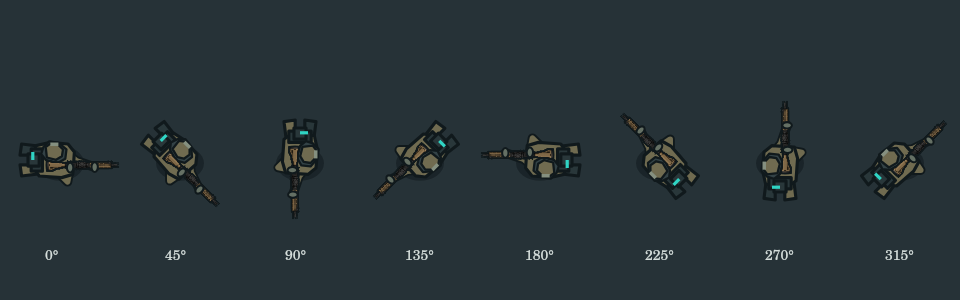
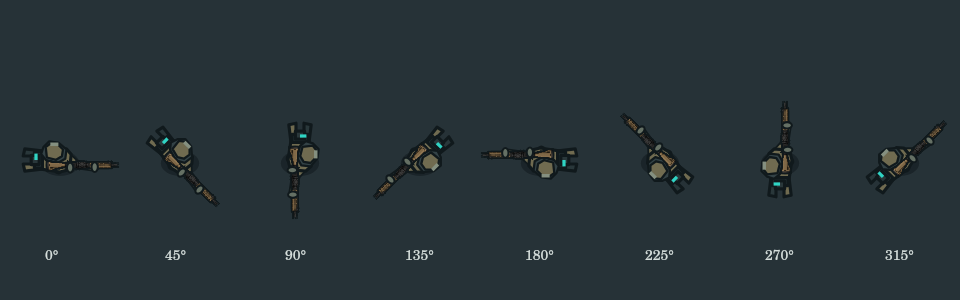
과도하게 두꺼운 체형을 줄이고 머리 대비 몸통·하체 비율 보정
머리와 총기 크기를 유지하며 몸통 22→15, 하체 20→14로 폭을 줄입니다.
군장·그림자를 함께 축소하고 방아쇠팔을 몸에 붙입니다.
표시 전용 변경으로 충돌과 성능은 보존합니다. 정적 이미지 갱신 및 타입 검사 통과, 미술 승인 대기.

diff --git a/artifacts/draft-order-player-generator/src/components/modularOperator.ts b/artifacts/draft-order-player-generator/src/components/modularOperator.ts
@@ -77,7 +77,7 @@ export function weaponMountPose(name:string):WeaponMountPose {
   const support=kind==='bolt'?mix(magazine,rawSupport,.22):kind==='marksman'?mix(magazine,rawSupport,.55):kind==='pistol'?{x:trigger.x+1.4,y:trigger.y-1.2}:rawSupport;
   return {kind,stock,triggerHand:trigger,supportHand:support,magazine,muzzle,
     torsoYaw,shoulderPocket,
-    triggerShoulder:rotate({x:-1,y:8}),supportShoulder:rotate({x:1,y:-7}),cheek:{x:stock.x+5,y:stock.y-3.5}};
+    triggerShoulder:rotate({x:-1,y:6}),supportShoulder:rotate({x:1,y:-5.5}),cheek:{x:stock.x+5,y:stock.y-3.5}};
 }
 
 function normalize(angle:number):number { return Math.atan2(Math.sin(angle),Math.cos(angle)); }
@@ -128,27 +128,27 @@ function paintLowerBody(ctx:CanvasRenderingContext2D,pose:OperatorAssemblyPose,t
   const relative=normalize(pose.lowerFacing-pose.upperFacing),step=!reducedMotion&&pose.moving&&!pose.prone?Math.sin(time*(pose.crouched?8:12))*3:0;
   ctx.save();ctx.rotate(relative);ctx.strokeStyle='#10191C';ctx.lineWidth=2;ctx.lineJoin='round';
   for(const side of [-1,1]){const rear=pose.prone?-29:pose.crouched?-13:-18+side*step;
-    polygon(ctx,[[rear-7,side*3],[rear+7,side*3],[rear+10,side*8],[rear-6,side*10]],side<0?'#29373A':color);}
+    polygon(ctx,[[rear-5,side*2.5],[rear+7,side*2.5],[rear+8,side*5.5],[rear-4,side*7]],side<0?'#29373A':color);}
   ctx.restore();
 }
 
 function paintTorso(ctx:CanvasRenderingContext2D,color:string):void {
   ctx.strokeStyle='#10191C';ctx.lineWidth=2;ctx.lineJoin='round';
-  polygon(ctx,[[-15,-9],[-6,-11],[5,-10],[9,-5],[8,9],[1,11],[-13,10],[-18,3]],color);
-  ctx.fillStyle='#29373A';ctx.fillRect(-18,-7,7,14);ctx.strokeRect(-18,-7,7,14);
+  polygon(ctx,[[-14,-5],[-6,-7.5],[4,-7],[7,-3.5],[6,6],[0,7.5],[-13,5.5],[-16,2]],color);
+  ctx.fillStyle='#29373A';ctx.fillRect(-16,-5,5,10);ctx.strokeRect(-16,-5,5,10);
 }
 
 function paintHeadAndKit(ctx:CanvasRenderingContext2D,color:string,pack:number,tool:string):void {
   ctx.strokeStyle='#10191C';ctx.lineWidth=2;ctx.lineJoin='round';
-  ctx.fillStyle='#29373A';ctx.fillRect(-20,-pack*.42,7,pack*.84);ctx.strokeRect(-20,-pack*.42,7,pack*.84);
+  ctx.fillStyle='#29373A';ctx.fillRect(-18,-pack*.32,5,pack*.64);ctx.strokeRect(-18,-pack*.32,5,pack*.64);
   ctx.save();ctx.translate(-1,-3);ctx.scale(.72,.72);
   polygon(ctx,[[-13,-7],[-8,-12],[0,-11],[7,-5],[6,3],[-1,7],[-11,4],[-15,-1]],'#334246');
   polygon(ctx,[[-11,-7],[-7,-10],[0,-9],[4,-5],[3,1],[-2,4],[-10,2]],color);
   ctx.fillStyle='#859080';ctx.fillRect(-7,-11,7,3);ctx.restore();
   if(tool==='battery'||tool==='interceptor'||tool==='charge'||tool==='plate'){
-    ctx.fillStyle=color;ctx.fillRect(-16,8,11,5);ctx.strokeRect(-16,8,11,5);
+    ctx.fillStyle=color;ctx.fillRect(-14,5.5,9,3.5);ctx.strokeRect(-14,5.5,9,3.5);
   } else if(tool==='coil'||tool==='roll'){
-    ctx.fillStyle='#859080';ctx.beginPath();ctx.arc(-11,10,3,0,Math.PI*2);ctx.fill();ctx.stroke();
+    ctx.fillStyle='#859080';ctx.beginPath();ctx.arc(-10,6.5,2.2,0,Math.PI*2);ctx.fill();ctx.stroke();
   }
 }
 
@@ -164,7 +164,7 @@ export function paintModularOperator(ctx:CanvasRenderingContext2D,unit:RealtimeU
   const kick=recoilOffset(time,shotAt,reducedMotion);
 
   ctx.save();ctx.globalAlpha=unit.alive?1:.4;
-  ctx.fillStyle='#04090C55';ctx.beginPath();ctx.ellipse(unit.position.x,unit.position.y+2,15,11,0,0,Math.PI*2);ctx.fill();
+  ctx.fillStyle='#04090C55';ctx.beginPath();ctx.ellipse(unit.position.x,unit.position.y+2,12,8,0,0,Math.PI*2);ctx.fill();
   ctx.translate(unit.position.x,unit.position.y);ctx.rotate(pose.upperFacing);
   paintLowerBody(ctx,pose,time,reducedMotion,kit.color);
   if(down){ctx.save();ctx.rotate(-.18);ctx.scale(1.15,.72);paintTorso(ctx,kit.color);paintHeadAndKit(ctx,kit.color,kit.pack,kit.tool);ctx.restore();ctx.restore();return true;}
@@ -178,7 +178,7 @@ export function paintModularOperator(ctx:CanvasRenderingContext2D,unit:RealtimeU
   const reloading=!down&&!reducedMotion&&unit.action==='reload'&&(unit.reloadRemaining??0)>0&&reloadAge>=0;
   if(reloading){const reach=Math.sin(Math.PI*Math.min(1,reloadAge/(reloadAge+unit.reloadRemaining!)));supportTarget=displaced(mix(mount.supportHand,mount.magazine,reach));}
   if(installing){triggerTarget={x:8,y:5};supportTarget={x:9,y:-5};}
-  const triggerArm=solveArm(mount.triggerShoulder,triggerTarget,8,9,1);
+  const triggerArm=solveArm(mount.triggerShoulder,triggerTarget,8,9,-1);
   let supportArm=solveArm(mount.supportShoulder,supportTarget,12,12,1);
   if(throwing){const thrownPose=throwArmPose(throwProgress);supportArm={shoulder:mount.supportShoulder,elbow:thrownPose.elbow,hand:thrownPose.hand};}
   strokeArm(ctx,supportArm,kit.color);strokeArm(ctx,triggerArm,kit.color);
@@ -194,7 +194,7 @@ export function paintModularOperator(ctx:CanvasRenderingContext2D,unit:RealtimeU
     hand(ctx,triggerTarget,axis+Math.PI/2);hand(ctx,supportTarget,axis+Math.PI/2);
   } else {hand(ctx,triggerTarget,0);hand(ctx,supportArm.hand,0);}
   if(unit.shieldRaised){ctx.fillStyle='#29373A';ctx.strokeStyle='#10191C';ctx.lineWidth=1.5;ctx.fillRect(10,-18,8,36);ctx.strokeRect(10,-18,8,36);ctx.fillStyle='#859080';ctx.fillRect(11,-9,6,9);}
-  ctx.fillStyle=unit.side==='공격'?'#2FD4C4':'#F0873C';ctx.fillRect(-18,-5,2,5);
+  ctx.fillStyle=unit.side==='공격'?'#2FD4C4':'#F0873C';ctx.fillRect(-16,-4,2,4);
   ctx.restore();return weaponDrawn;
 }
 

diff --git a/docs/operator-shouldering-current.md b/docs/operator-shouldering-current.md
@@ -5,6 +5,10 @@
 작업 기준: `feat/modular-operator-renderer`, PR #15, 시작 커밋 `2a02c65`.
 목표는 총을 오른쪽 외곽에 얹은 인상을 제거하고 어깨·양손·총을 하나의 자세로 읽게 하는 것이다. 통짜 시트와 새 총기 원화는 만들지 않았다. 실제 브라우저는 실행하지 않았다.
 
+## 체형 후속 보정
+
+사용자가 몸통이 지나치게 두껍다고 지적했다. 머리·총기 크기는 유지하고 몸통 폭 22→15, 하체 폭 20→14, 배낭 폭 약 24% 축소, 어깨 간격 15→11.5로 조정했다. 방아쇠팔을 안쪽으로 접고 그림자도 축소했다. 모두 표시 좌표이며 충돌·성능 변경은 없다. 정적 이미지는 갱신했으며 미술 승인 대기다.
+
 ## 조사 근거와 한계
 
 실물 사진/설명과 게임 화면의 투영을 구분한다. **6개 총종 전체의 동일 시점 수직 탑뷰 견착 사진 세트는 확보하지 못했다.** 아래 자료를 바탕으로 관절 관계를 설계했으며, 코드의 좌표·회전각은 실측이나 군 교범 표준값이 아니다.

diff --git a/docs/PROJECT_STATE.md b/docs/PROJECT_STATE.md
@@ -1,3 +1,5 @@
+> **체형 보정:** 머리/총기 유지, 몸통·하체 폭 약 30% 축소, 군장·그림자 축소 및 팔 밀착. 정적 이미지 갱신, 미술 승인 대기.
+
 > **외형 반려 후 수정:** 머리에서 팔이 솟는 시안은 사용자 반려. 지지팔을 안쪽으로 접고 위팔을 몸통/머리 뒤로 가리는 수정 적용. 이전 외형 품질 판정 철회, 사용자 미술 승인 대기. [상세](operator-shouldering-current.md)
 
 > **최신 견착 보정:** [총기 중심선·견착 보정](operator-shouldering-current.md). 몸 안쪽 총열·어깨 포켓 접촉·C14 몸통 회전·반동 양손 동기화. 표시 총구를 시뮬레이션과 분리. 20무기 160방향, 64/128 정적 이미지, 타입·빌드 확인. 브라우저 미실행, 최종 원화/미술 승인 별도.
